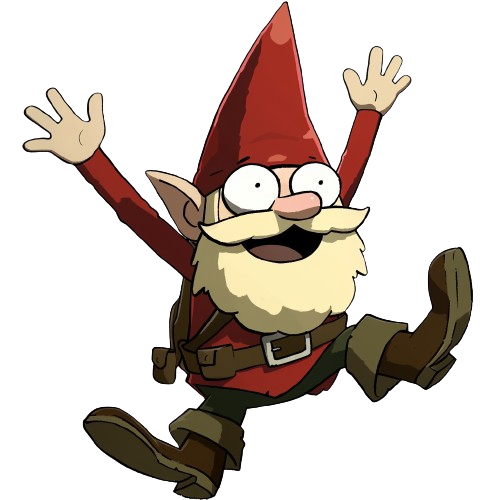
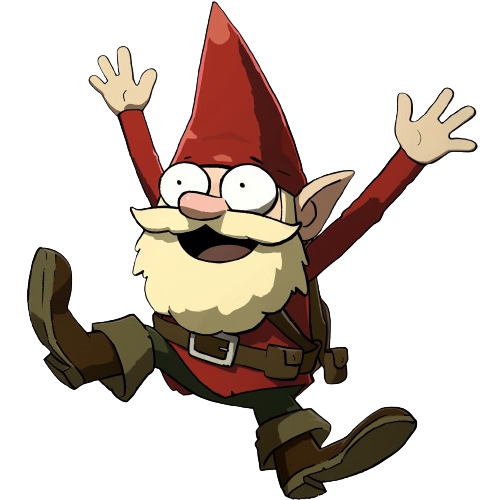
Fixed audio volumes, changed canvas size and added flipping mechanic

diff --git a/components/Game.js b/components/Game.js
@@ -32,13 +32,14 @@ export class Game {
             score: Math.floor(Math.random() * 2000) + 1000,
             timestamp: Date.now() - Math.floor(Math.random() * 30) * 24 * 60 * 60 * 1000
         })).sort((a, b) => b.score - a.score);
-        this.gnomeImages = ['gnome1.png', 'gnome2.png', 'gnome3.png', 'gnome4.png', 'gnome5.png']
+        this.gnomeImages = ['gnome1', 'gnome2', 'gnome3', 'gnome4', 'gnome5']
+        this.flippedImages = ['gnome1-flipped', 'gnome2-flipped', 'gnome3-flipped', 'gnome4-flipped', 'gnome5-flipped']
     }
 
     init() {
         window.addEventListener('resize', this.resizeCanvas.bind(this));
         this.resizeCanvas();
-        this.renderer.preloadImages([...this.gnomeImages, 'walkingGnome.png']);
+        this.renderer.preloadImages([...this.gnomeImages, ...this.flippedImages, 'walkingGnome', 'walkingGnome-flipped']);
         this.renderer.onAllImagesLoaded = () => {
             this.gameLoop();
         };
@@ -100,7 +101,7 @@ export class Game {
             if (word.y > this.canvas.height - 30) {
                 this.lives--;
                 this.audioManager.playSound(this.audioManager.hurtSound);
-                this.patrollingGnomes.push(new PatrollingGnome(word.x, this.canvas.width, this.canvas.height, this.renderer, 'walkingGnome.png'));
+                this.patrollingGnomes.push(new PatrollingGnome(word.x, this.canvas.width, this.canvas.height, this.renderer, 'walkingGnome'));
                 return false;
             }
             return true;

diff --git a/components/FallingWord.js b/components/FallingWord.js
@@ -9,6 +9,7 @@ export class FallingWord {
         this.phase = Math.random() * Math.PI * 2;
         this.renderer = renderer;
         this.gnomeImage = gnomeImage;
+        this.prevX = this.x; // Add this line to track previous x-position
     }
 
     draw() {
@@ -39,8 +40,10 @@ export class FallingWord {
         this.renderer.ctx.lineWidth = 1;
         this.renderer.ctx.stroke();
 
-        // Draw gnome with custom image
-        this.renderer.drawImage(this.gnomeImage, this.x, this.y + parachuteHeight, gnomeWidth, gnomeHeight);
+        // Draw gnome with custom image, flipped based on movement direction
+        const isMovingRight = this.x > this.prevX;
+        const imageName = isMovingRight ? `${this.gnomeImage}-flipped` : this.gnomeImage;
+        this.renderer.drawImage(imageName, this.x, this.y + parachuteHeight, gnomeWidth, gnomeHeight);
 
         // Draw word
         this.renderer.drawText(this.word, this.x + parachuteWidth / 2, this.y + 20, {
@@ -49,6 +52,7 @@ export class FallingWord {
     }
 
     update() {
+        this.prevX = this.x; // Store current x before updating
         this.y += this.speed;
         this.x += Math.sin(this.y * this.frequency + this.phase) * this.amplitude / 20;
     }

diff --git a/components/Renderer.js b/components/Renderer.js
@@ -6,7 +6,7 @@ export class Renderer {
         this.backgroundImg.src = 'background.png';
         this.gnomeImages = {};
         this.loadedImages = 0;
-        this.totalImages = 6; // background + 5 gnome images
+        this.totalImages = 10; // background + 6 gnomes x 2
         this.onAllImagesLoaded = null;
     }
 
@@ -19,7 +19,8 @@ export class Renderer {
                     this.onAllImagesLoaded();
                 }
             };
-            img.src = name;
+
+            img.src = name+'.png';
             this.gnomeImages[name] = img;
         });
     }
@@ -38,6 +39,7 @@ export class Renderer {
     }
 
     drawImage(src, x, y, width, height) {
+        console.log(this.gnomeImages)
         const img = this.gnomeImages[src] || this.backgroundImg;
         if (img.complete) {
             this.ctx.drawImage(img, x, y, width, height);

diff --git a/components/AudioManager.js b/components/AudioManager.js
@@ -7,8 +7,10 @@ export class AudioManager {
         this.backgroundMusic = new Audio('https://cdn.freesound.org/previews/697/697844_10643461-lq.mp3');
         this.hurtSound = new Audio('https://cdn.freesound.org/previews/261/261855_4157918-lq.mp3');
         this.backgroundMusic.loop = true;
-        this.backgroundMusic.volume = 0.1;
-        this.destroySound.volume = 0.06;
+        this.backgroundMusic.volume = 0.06;
+        this.destroySound.volume = 0.04;
+        this.hurtSound.volume = 0.05;
+        this.fireSound.volume = 0.05;
     }
 
     playSound(sound) {

diff --git a/components/PatrollingGnome.js b/components/PatrollingGnome.js
@@ -10,7 +10,12 @@ export class PatrollingGnome {
     }
 
     draw() {
-        this.renderer.drawImage(this.gnomeImage, this.x, this.y - 30, 60, 60);
+        if(this.direction > 0){
+            this.renderer.drawImage(`${this.gnomeImage}-flipped`, this.x, this.y - 30, 60, 60);
+        }else{
+            this.renderer.drawImage(`${this.gnomeImage}`, this.x, this.y - 30, 60, 60);
+        }
+        
     }
 
     update() {

diff --git a/styles/Home.module.css b/styles/Home.module.css
@@ -9,7 +9,6 @@
 
 .main {
     width: 100%;
-    max-width: 800px;
     display: flex;
     flex-direction: column;
     align-items: center;
@@ -18,7 +17,7 @@
 .gameContainer {
     position: relative;
     width: 100%;
-    height: 60vh;
+    height: 65vh;
     margin-bottom: 20px;
     border: 1px solid #ccc;
     overflow: hidden;
